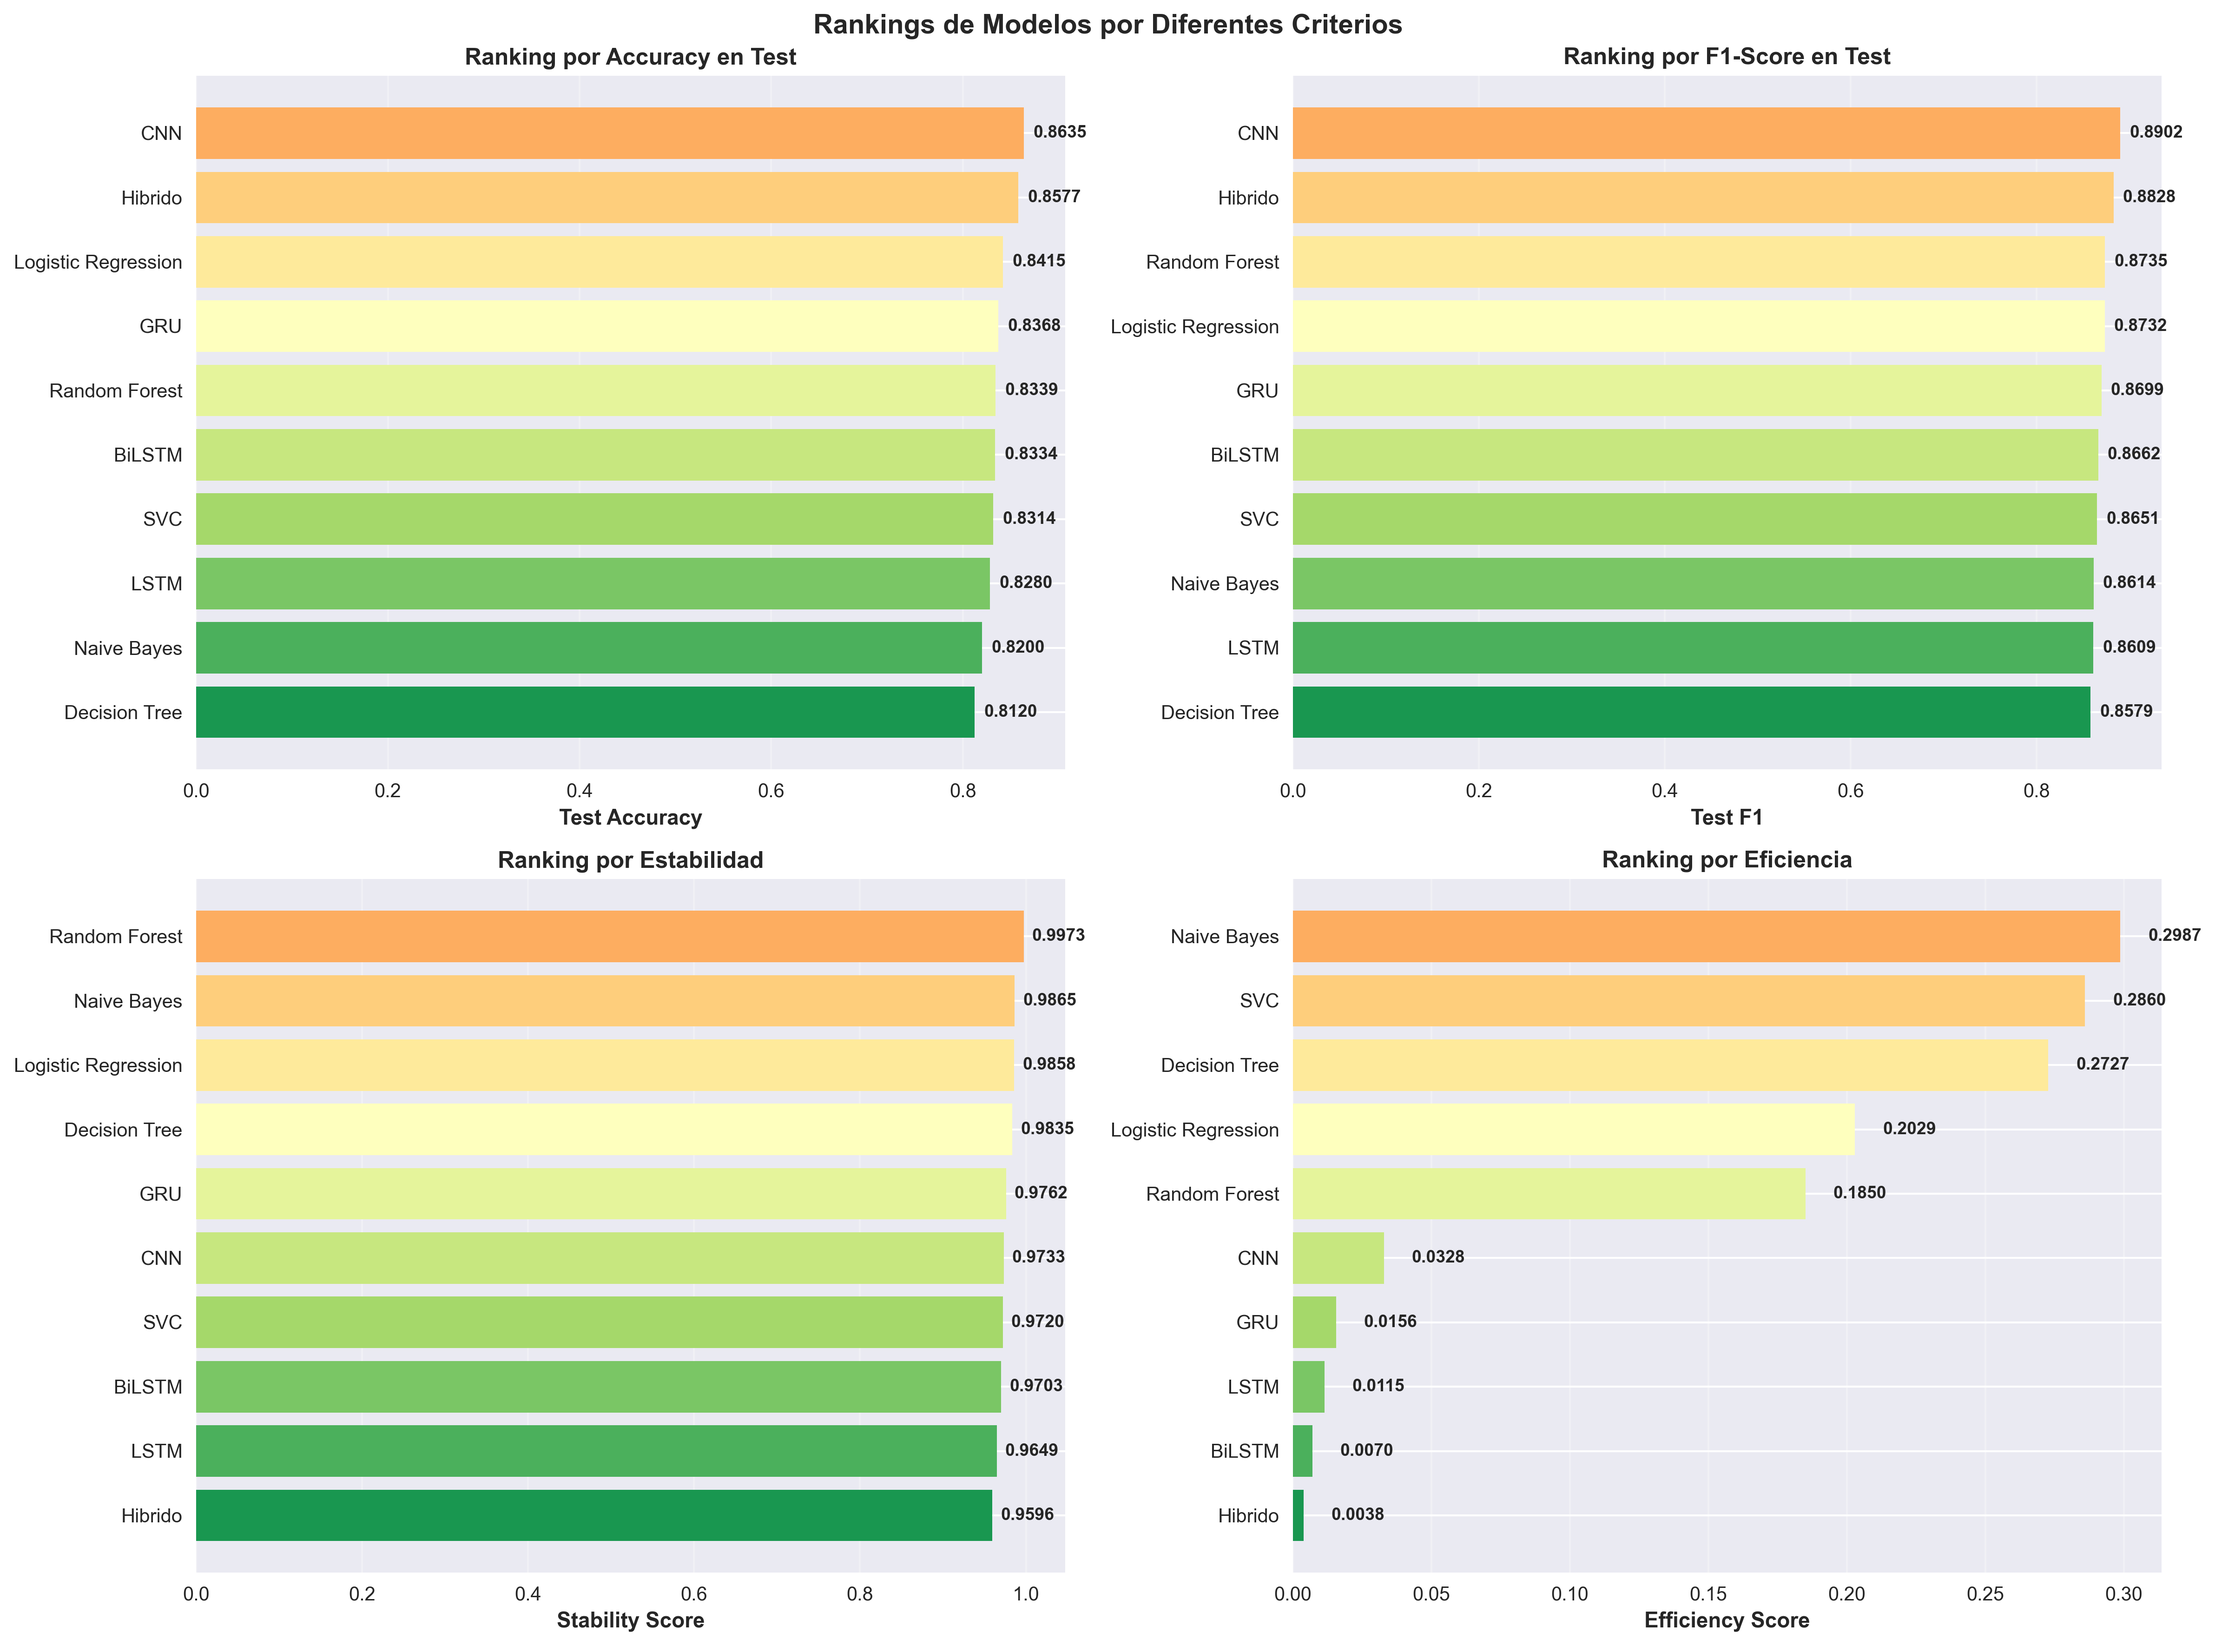
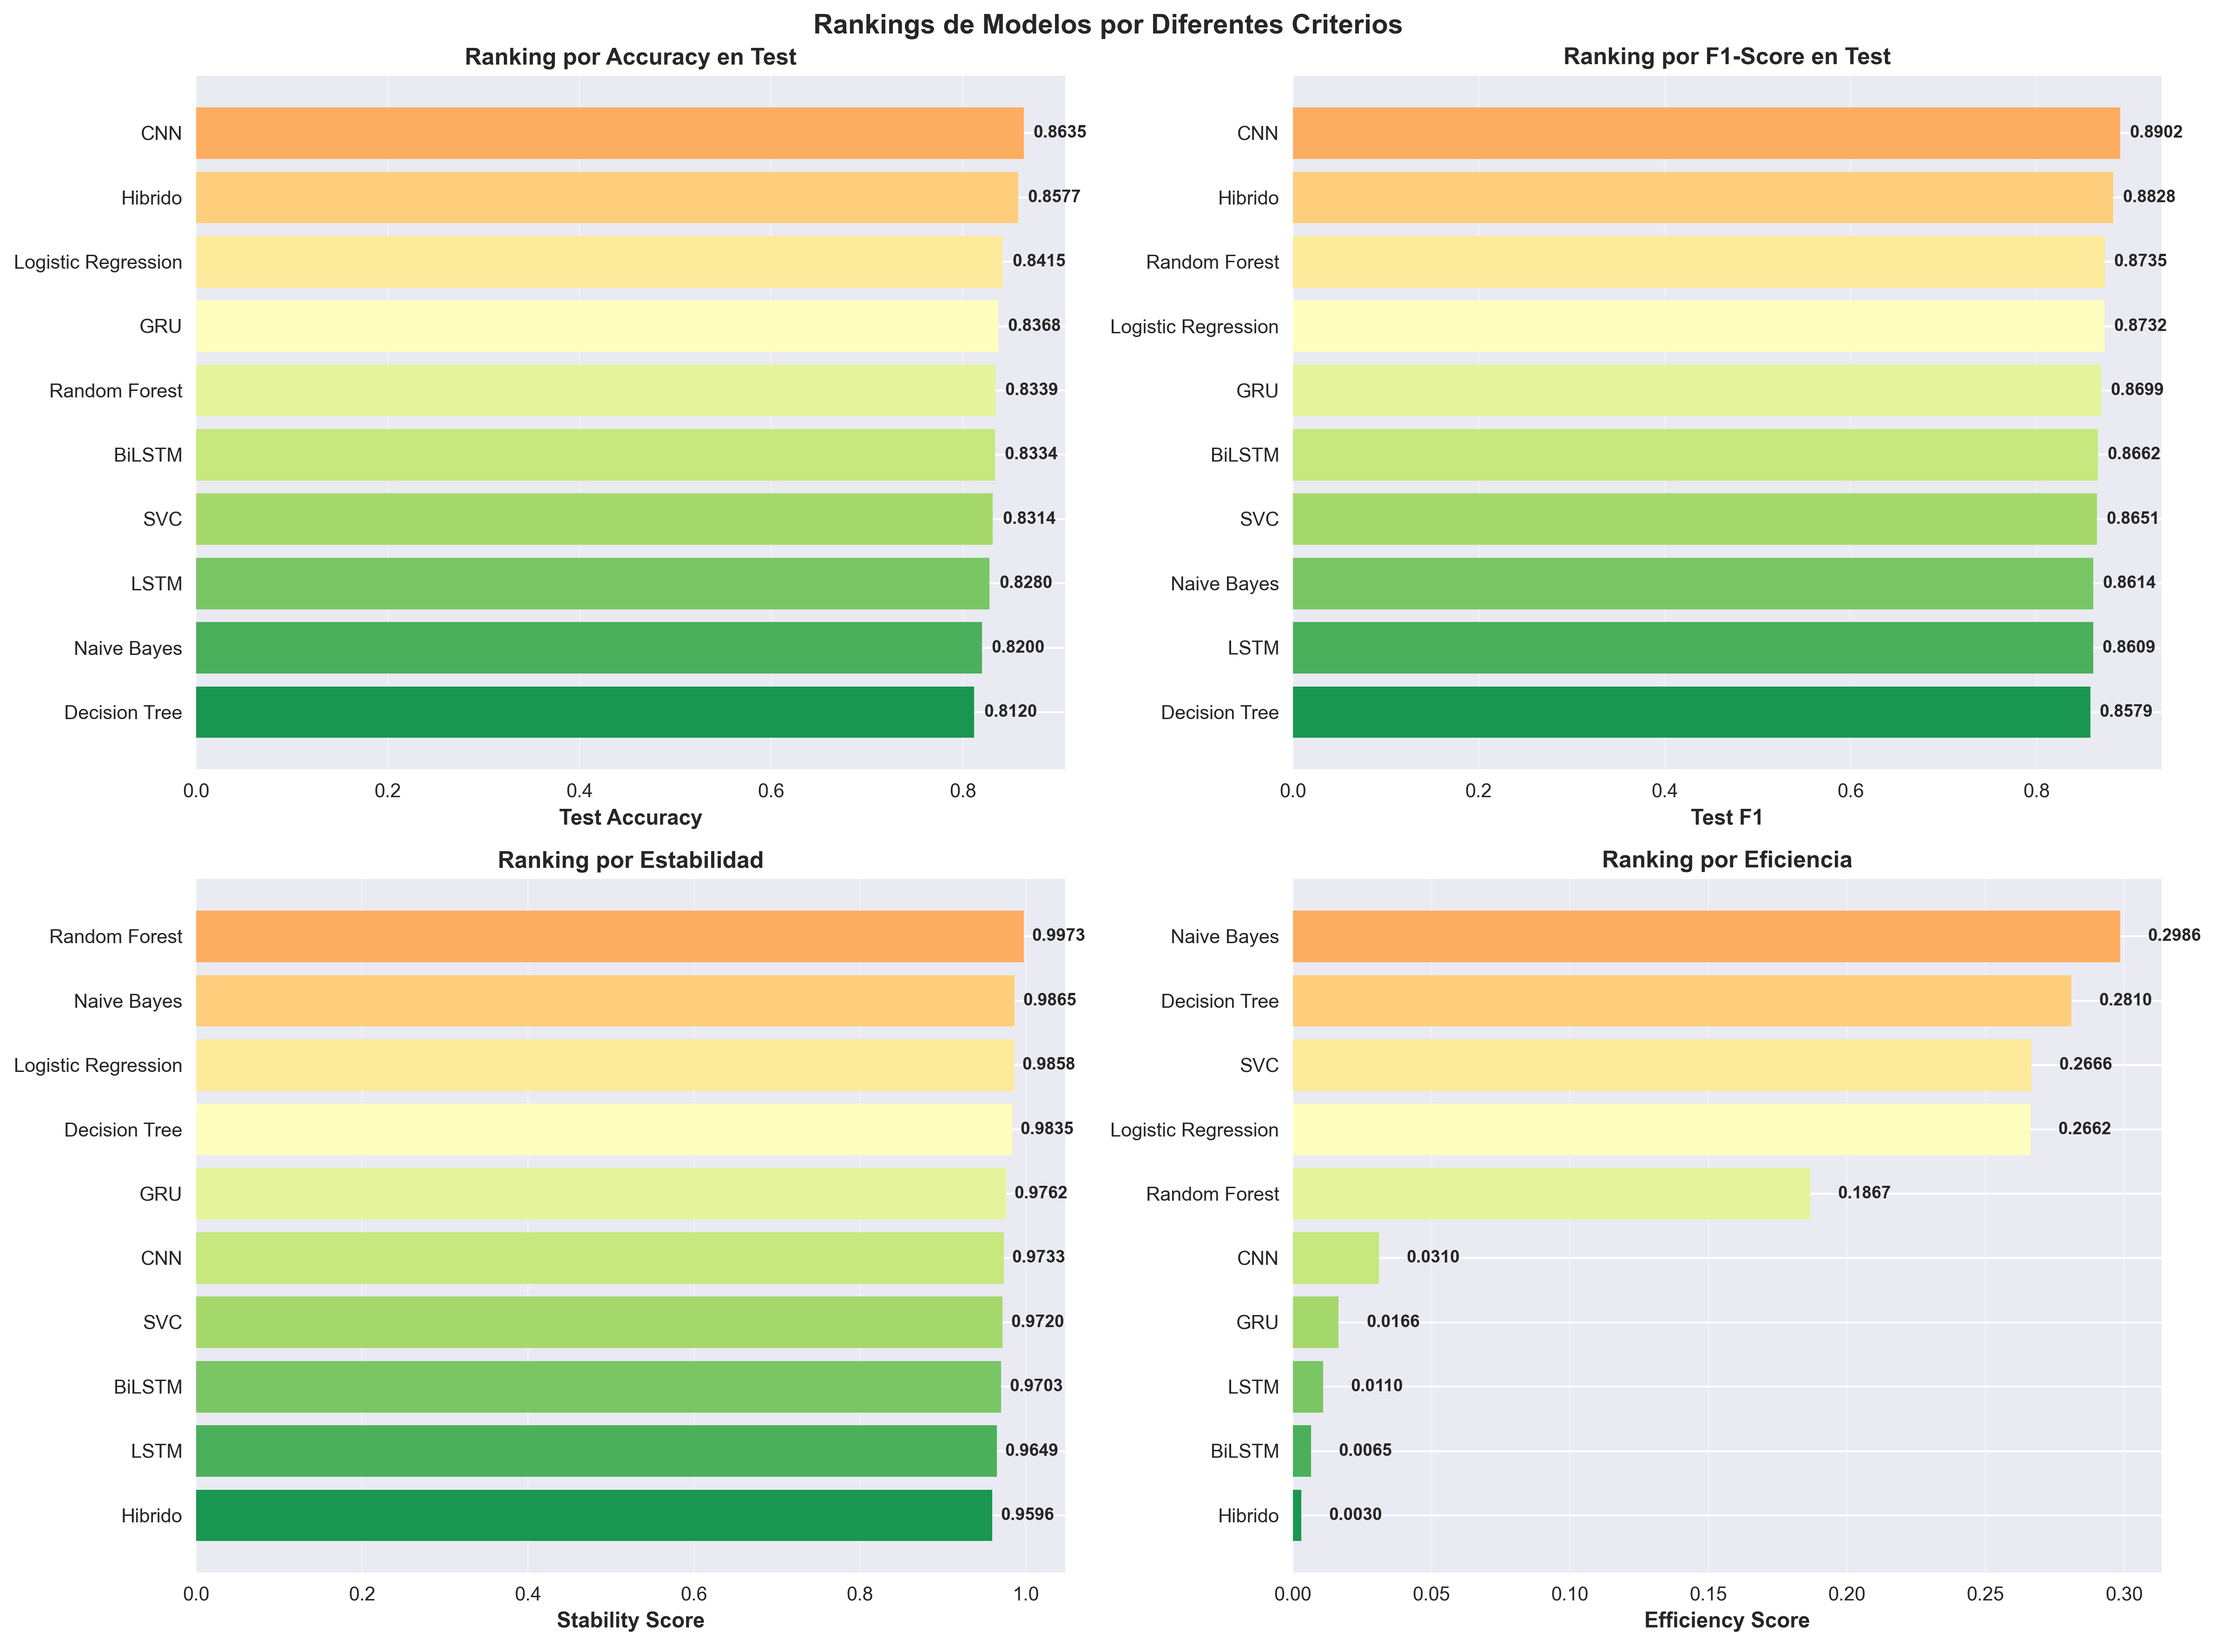
Add model performance summaries and update results with improved metrics
- Introduced a new CSV file `model_purpose_summary.csv` detailing model categories, descriptions, and their strengths in detecting fake and real news.
- Updated `model_results_summary.csv` with refined performance metrics for various models, including Logistic Regression, SVC, Naive Bayes, Decision Tree, Random Forest, LSTM, BiLSTM, GRU, CNN, and Hybrid models, reflecting enhanced accuracy and efficiency.

diff --git a/evaluation/evaluate_models.py b/evaluation/evaluate_models.py
@@ -290,6 +290,177 @@ class AdvancedModelEvaluator:
         else:
             return "Bajo"
 
+    def interpret_model_purposes(self):
+        """
+        Analiza los resultados globales y sugiere para qué tipo de tarea
+        destaca cada modelo, según métricas clave y comportamiento general.
+        Muestra las 10 categorías aunque no haya un modelo ganador.
+        """
+
+        if not hasattr(self, "results") or not self.results:
+            print("⚠ No hay resultados para analizar.")
+            return
+
+        df = pd.DataFrame(self.results)
+        df.columns = [c.replace(" ", "_") for c in df.columns]
+
+        print("\n" + "=" * 120)
+        print("🧩 INTERPRETACIÓN AVANZADA DE LOS MODELOS")
+        print("=" * 120 + "\n")
+
+        interpretaciones = {}
+
+        def add_interpretacion(categoria, modelo=None, descripcion=None):
+            """Agrega interpretación o marca como no detectada."""
+            if modelo is not None:
+                interpretaciones[categoria] = (modelo, descripcion)
+            else:
+                interpretaciones[categoria] = (
+                    "⚠ Sin modelo destacado",
+                    "No se detectó un modelo sobresaliente en esta categoría.",
+                )
+
+        # 1⃣ Mejor para detectar Fake News → Recall más alto
+        if "Test_Recall" in df:
+            mejor_fake = df.loc[df["Test_Recall"].idxmax(), "Modelo"]
+            add_interpretacion(
+                "Detección de Fake News",
+                mejor_fake,
+                "Posee el mejor Recall en test, ideal para detectar noticias falsas sin omitir casos importantes.",
+            )
+        else:
+            add_interpretacion("Detección de Fake News")
+
+        # 2⃣ Mejor para detectar Real News → Precisión más alta
+        if "Test_Precision" in df:
+            mejor_real = df.loc[df["Test_Precision"].idxmax(), "Modelo"]
+            add_interpretacion(
+                "Detección de Real News",
+                mejor_real,
+                "Alcanza la mayor Precisión, reduciendo falsos positivos. Perfecto para validar contenido legítimo.",
+            )
+        else:
+            add_interpretacion("Detección de Real News")
+
+        # 3⃣ Modelo más equilibrado entre validación y prueba
+        if "Validation_F1" in df and "Test_F1" in df:
+            idx = (df["Validation_F1"] - df["Test_F1"]).abs().idxmin()
+            mejor_equilibrado = df.loc[idx, "Modelo"]
+            add_interpretacion(
+                "Modelo más equilibrado",
+                mejor_equilibrado,
+                "Presenta consistencia entre validación y prueba, indicando buena estabilidad y generalización.",
+            )
+        else:
+            add_interpretacion("Modelo más equilibrado")
+
+        # 4⃣ Modelo más robusto (menos overfitting)
+        if "Overfitting_F1" in df:
+            mejor_general = df.loc[df["Overfitting_F1"].abs().idxmin(), "Modelo"]
+            add_interpretacion(
+                "Modelo más robusto",
+                mejor_general,
+                "Tiene el menor sobreajuste. Ideal para entornos con datos no vistos o cambiantes.",
+            )
+        else:
+            add_interpretacion("Modelo más robusto")
+
+        # 5⃣ Modelo más rápido en predicción
+        if "Test_Time" in df:
+            mejor_rapido_pred = df.loc[df["Test_Time"].idxmin(), "Modelo"]
+            add_interpretacion(
+                "Más rápido en predicción",
+                mejor_rapido_pred,
+                "Tiempo de inferencia más bajo. Ideal para sistemas en tiempo real o móviles.",
+            )
+        else:
+            add_interpretacion("Más rápido en predicción")
+
+        # 6⃣ Modelo más eficiente en entrenamiento
+        if "Train_Time" in df:
+            mejor_entrenamiento = df.loc[df["Train_Time"].idxmin(), "Modelo"]
+            add_interpretacion(
+                "Más eficiente en entrenamiento",
+                mejor_entrenamiento,
+                "Entrena en menos tiempo. Útil cuando se requieren actualizaciones frecuentes del modelo.",
+            )
+        else:
+            add_interpretacion("Más eficiente en entrenamiento")
+
+        # 7⃣ Modelo con mejor AUC (discriminación)
+        if "Test_ROC_AUC" in df:
+            mejor_auc = df.loc[df["Test_ROC_AUC"].idxmax(), "Modelo"]
+            add_interpretacion(
+                "Mayor capacidad de discriminación (AUC)",
+                mejor_auc,
+                "Excelente balance entre sensibilidad y especificidad. Distingue claramente entre clases.",
+            )
+        else:
+            add_interpretacion("Mayor capacidad de discriminación (AUC)")
+
+        # 8⃣ Modelo más consistente (menor desviación entre métricas)
+        posibles = [c for c in ["Test_F1", "Test_Precision", "Test_Recall"] if c in df]
+        if posibles:
+            df["Consistency_Score"] = df[posibles].std(axis=1)
+            idx = df["Consistency_Score"].idxmin()
+            consistente = df.loc[idx, "Modelo"]
+            add_interpretacion(
+                "Modelo más consistente",
+                consistente,
+                "Mantiene equilibrio entre métricas clave (Precision, Recall, F1). Ideal para decisiones balanceadas.",
+            )
+        else:
+            add_interpretacion("Modelo más consistente")
+
+        # 9⃣ Modelo con mejor rendimiento global (F1)
+        if "Test_F1" in df:
+            mejor_f1 = df.loc[df["Test_F1"].idxmax(), "Modelo"]
+            add_interpretacion(
+                "Rendimiento global (F1)",
+                mejor_f1,
+                "Obtiene el mayor F1, ofreciendo el mejor rendimiento global en clasificación.",
+            )
+        else:
+            add_interpretacion("Rendimiento global (F1)")
+
+        # 🔟 Modelo más interpretable
+        if any(df["Modelo"].str.contains("Decision", case=False)):
+            add_interpretacion(
+                "Ideal para interpretación y explicación",
+                "Decision Tree",
+                "Permite entender las decisiones internas. Recomendado para auditorías o explicación de resultados.",
+            )
+        else:
+            add_interpretacion("Ideal para interpretación y explicación")
+
+        # ───────────────────────────────────────────────
+        # 💬 Mostrar resultados
+        print("🧠 Interpretaciones de modelos detectadas:\n")
+        for categoria, (modelo, descripcion) in interpretaciones.items():
+            print(f" • 🏷 {categoria}:")
+            print(f"    → **{modelo}** → {descripcion}\n")
+
+        print("=" * 120)
+        print("💡 Sugerencia general de uso:")
+        print("   - Usa el modelo más equilibrado como predeterminado.")
+        print("   - Ofrece al usuario seleccionar según su objetivo:")
+        print("       • Precisión alta → Detección de Real News")
+        print("       • Recall alto → Detección de Fake News")
+        print("       • Estabilidad → Modelo más equilibrado")
+        print("       • Velocidad → Predicción o entrenamiento rápido")
+        print("       • Interpretabilidad → Árbol de decisión")
+        print("=" * 120 + "\n")
+
+        resumen = pd.DataFrame(
+            [
+                {"Categoría": k, "Modelo": v[0], "Descripción": v[1]}
+                for k, v in interpretaciones.items()
+            ]
+        )
+        resumen.to_csv("reports/model_purpose_summary.csv", index=False)
+
+        return interpretaciones
+
     # ==================== VISUALIZACIONES MEJORADAS ====================
 
     def plot_comprehensive_comparison(self, save_fig=False):
@@ -1367,6 +1538,12 @@ def main():
     df_results = evaluator.generate_comprehensive_report()
     df_results.to_csv("reports/model_results_summary.csv", index=False)
 
+    # Interpretación avanzada de modelos
+    print("\n" + "=" * 120)
+    print("🧠 INTERPRETANDO RESULTADOS Y PROPÓSITOS DE LOS MODELOS")
+    print("=" * 120)
+    evaluator.interpret_model_purposes()
+
     # Generar todas las visualizaciones
     print("\n" + "=" * 100)
     print("📈 GENERANDO VISUALIZACIONES AVANZADAS...")
@@ -1401,13 +1578,6 @@ def main():
     print("\n📁 Archivos generados:")
     print("   • Figuras guardadas en: ./figures/")
     print("   • Reportes guardados en: ./reports/")
-    print("\n💡 Utiliza estos análisis para tu proyecto de grado:\n")
-    print("   1. Tablas comparativas de métricas")
-    print("   2. Análisis de overfitting/underfitting")
-    print("   3. Matrices de confusión por modelo")
-    print("   4. Gráficos de rendimiento multidimensional")
-    print("   5. Análisis estadístico de significancia")
-    print("   6. Recomendaciones basadas en datos")
     print("\n" + "=" * 100 + "\n")
 
 
